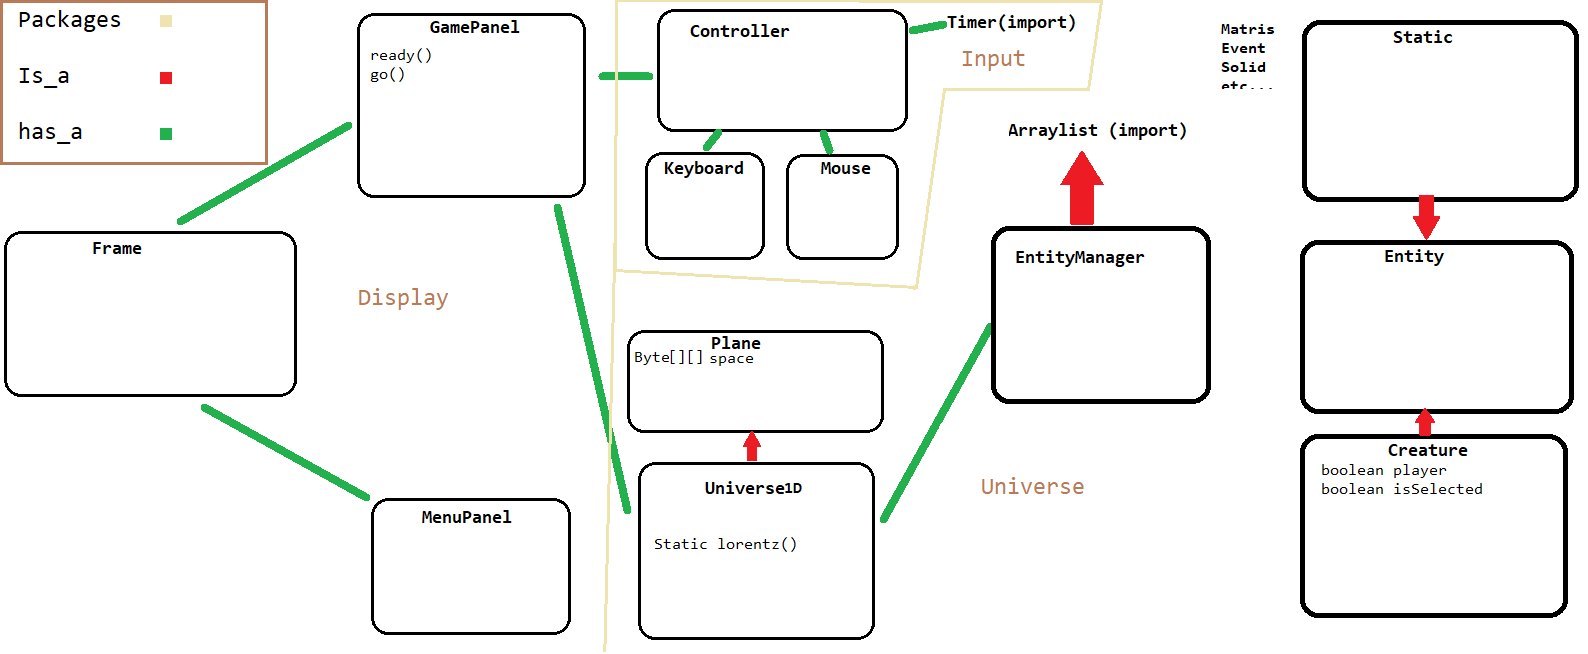
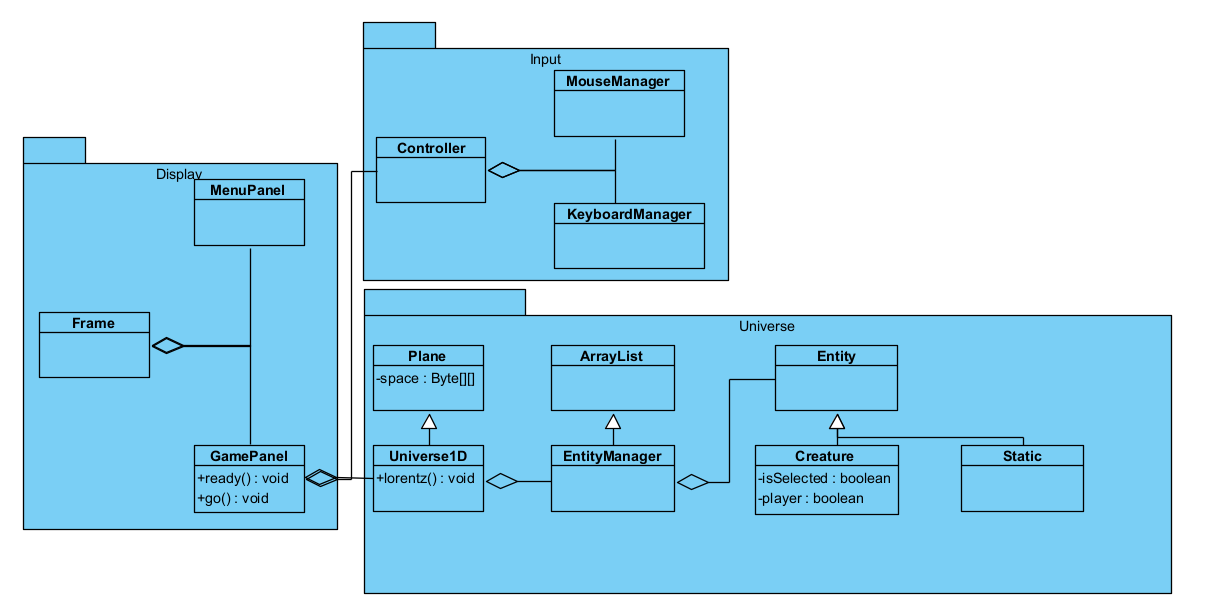
re-drew the exact same diagram with Visual Paradigm

diff --git a/README.md b/README.md
@@ -1,0 +1,2 @@
+"# willDeleteThis" 
+"# RelativitySimulator" 
